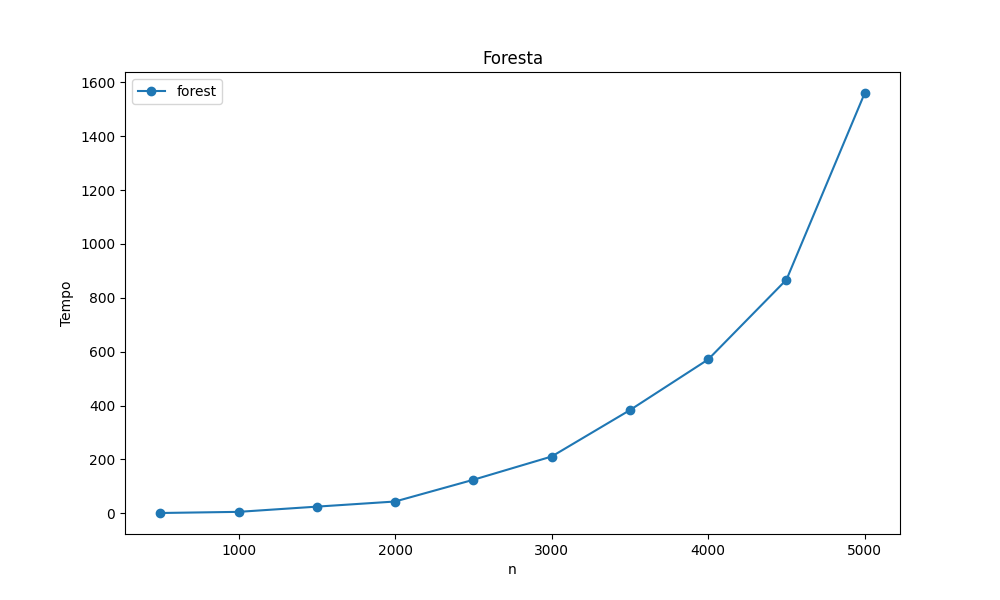
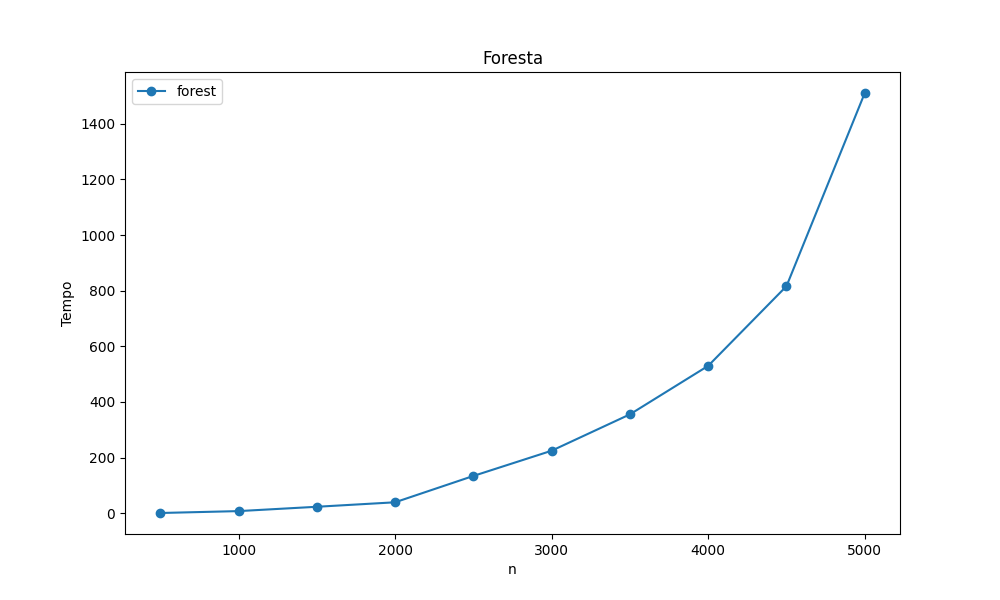
benchmark: forest result

diff --git a/benchmarks/benchmarks.py b/benchmarks/benchmarks.py
@@ -108,6 +108,6 @@ def generate_plot_ref():
 if __name__ == "__main__":
     base = 500
     step = 500
-	#bench_forest([base+step*x for x in range(10)], 0.9)
-    bench_list([base+step*x for x in range(10)], 0.9)
-    generate_plot("Lista Concatenata con EUP", "linked_eup.png")
+    bench_forest([base+step*x for x in range(10)], 0.9)
+    # bench_list([base+step*x for x in range(10)], 0.9)
+    generate_plot("Foresta", "forest.png")

diff --git a/structures/disjoint_forest.py b/structures/disjoint_forest.py
@@ -20,8 +20,8 @@ class Node:
 		return self.parent
 	
 	def union(self, other):
-		other_root = other.compressed_find_set()
-		self_root = self.compressed_find_set()
+		other_root = other.find_set()
+		self_root = self.find_set()
 		if other_root is self_root:
 			return
 		other_root.parent = self_root

diff --git a/benchmarks/bench_forest.py b/benchmarks/bench_forest.py
@@ -26,7 +26,7 @@ def bench(n_list, density):
 		end = time.perf_counter_ns()
 		exec_time = (end - start) / 1e9
 
-		print(f"(Normal LL)   m: {m} - time: {exec_time:.6f} seconds")
+		print(f"(Forest)   m: {m} - time: {exec_time:.6f} seconds")
 		print()
 
 		dao.insert_result("forest", n, m, exec_time)
